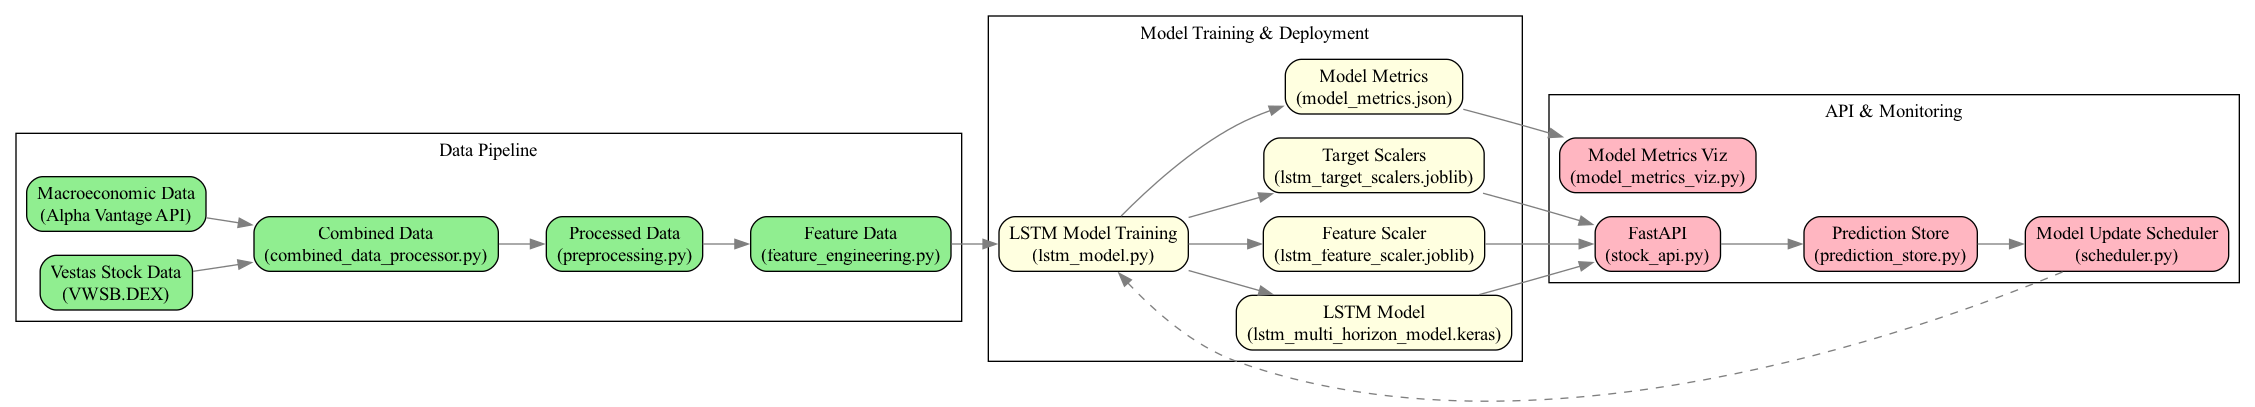
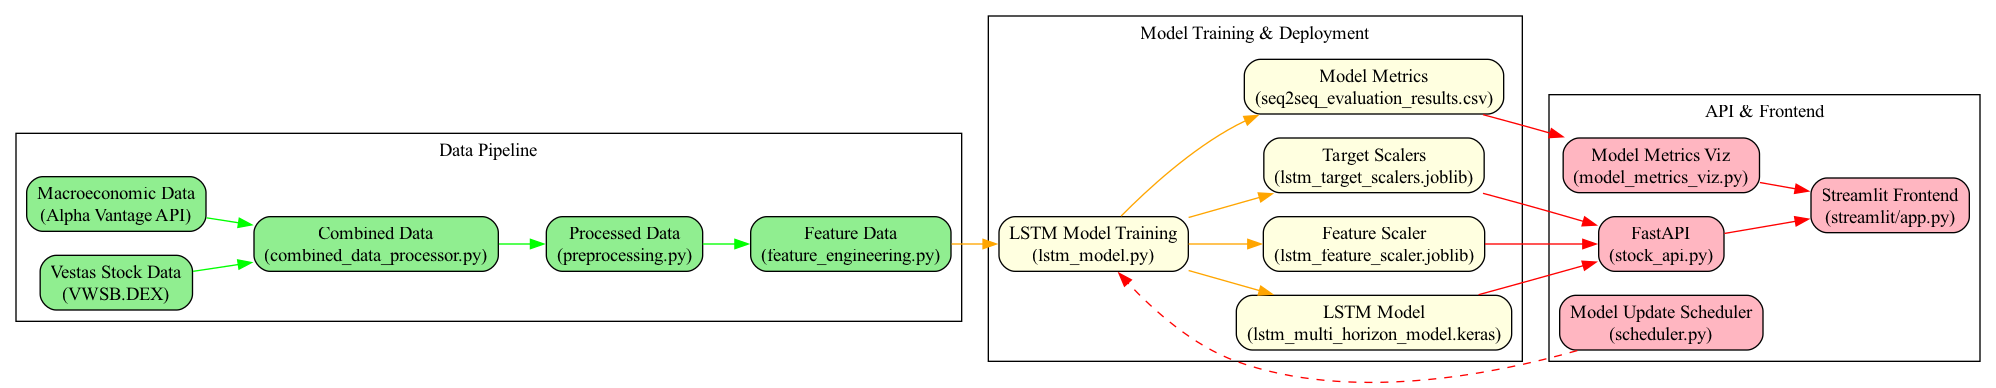
1

Changed region(s): [[0.0, 0.0309, 0.994, 0.9897], [0.0, 0.3093, 0.497, 0.4021], [0.5281, 0.4948, 0.5591, 0.5258]]

diff --git a/src/pipelinevizoptions/src/pipelinevizoptions/pipeline_viz.py b/src/pipelinevizoptions/src/pipelinevizoptions/pipeline_viz.py
@@ -2,70 +2,68 @@ import graphviz
 from pathlib import Path
 
 def create_pipeline_visualization():
-    """Creates a visualization of the complete MLOps pipeline architecture."""
+    """Opretter en visualisering af pipeline arkitekturen med Graphviz"""
     
-    # Create a new digraph
+    # Opret en ny digraph
     dot = graphviz.Digraph(comment='MLOps Pipeline Architecture')
     dot.attr(rankdir='LR')  # Left to right layout
     
-    # Add styling
-    dot.attr('node', shape='box', style='rounded,filled', fillcolor='lightblue')
-    dot.attr('edge', color='gray50')
+    # Tilføj styling
+    dot.attr('node', shape='box', style='rounded,filled')
     
     # Data Pipeline Nodes
     with dot.subgraph(name='cluster_0') as c:
         c.attr(label='Data Pipeline')
-        c.attr('node', fillcolor='lightgreen')
-        c.node('vestas_data', 'Vestas Stock Data\n(VWSB.DEX)')
-        c.node('macro_data', 'Macroeconomic Data\n(Alpha Vantage API)')
-        c.node('combined_data', 'Combined Data\n(combined_data_processor.py)')
-        c.node('processed_data', 'Processed Data\n(preprocessing.py)')
-        c.node('feature_data', 'Feature Data\n(feature_engineering.py)')
+        c.node('vestas_data', 'Vestas Stock Data\n(VWSB.DEX)', fillcolor='lightgreen')
+        c.node('macro_data', 'Macroeconomic Data\n(Alpha Vantage API)', fillcolor='lightgreen')
+        c.node('combined_data', 'Combined Data\n(combined_data_processor.py)', fillcolor='lightgreen')
+        c.node('processed_data', 'Processed Data\n(preprocessing.py)', fillcolor='lightgreen')
+        c.node('feature_data', 'Feature Data\n(feature_engineering.py)', fillcolor='lightgreen')
         
-        # Data flow
-        c.edge('vestas_data', 'combined_data')
-        c.edge('macro_data', 'combined_data')
-        c.edge('combined_data', 'processed_data')
-        c.edge('processed_data', 'feature_data')
+        # Data flow edges
+        c.edge('vestas_data', 'combined_data', color='green')
+        c.edge('macro_data', 'combined_data', color='green')
+        c.edge('combined_data', 'processed_data', color='green')
+        c.edge('processed_data', 'feature_data', color='green')
     
     # Model Training Nodes
     with dot.subgraph(name='cluster_1') as c:
         c.attr(label='Model Training & Deployment')
-        c.attr('node', fillcolor='lightyellow')
-        c.node('model_training', 'LSTM Model Training\n(lstm_model.py)')
-        c.node('lstm_model', 'LSTM Model\n(lstm_multi_horizon_model.keras)')
-        c.node('feature_scaler', 'Feature Scaler\n(lstm_feature_scaler.joblib)')
-        c.node('target_scalers', 'Target Scalers\n(lstm_target_scalers.joblib)')
-        c.node('model_metrics', 'Model Metrics\n(model_metrics.json)')
+        c.node('model_training', 'LSTM Model Training\n(lstm_model.py)', fillcolor='lightyellow')
+        c.node('lstm_model', 'LSTM Model\n(lstm_multi_horizon_model.keras)', fillcolor='lightyellow')
+        c.node('feature_scaler', 'Feature Scaler\n(lstm_feature_scaler.joblib)', fillcolor='lightyellow')
+        c.node('target_scalers', 'Target Scalers\n(lstm_target_scalers.joblib)', fillcolor='lightyellow')
+        c.node('model_metrics', 'Model Metrics\n(seq2seq_evaluation_results.csv)', fillcolor='lightyellow')
         
-        # Model flow
-        c.edge('feature_data', 'model_training')
-        c.edge('model_training', 'lstm_model')
-        c.edge('model_training', 'feature_scaler')
-        c.edge('model_training', 'target_scalers')
-        c.edge('model_training', 'model_metrics')
+        # Model flow edges
+        c.edge('feature_data', 'model_training', color='orange')
+        c.edge('model_training', 'lstm_model', color='orange')
+        c.edge('model_training', 'feature_scaler', color='orange')
+        c.edge('model_training', 'target_scalers', color='orange')
+        c.edge('model_training', 'model_metrics', color='orange')
     
-    # API & Monitoring Nodes
+    # API & Frontend Nodes
     with dot.subgraph(name='cluster_2') as c:
-        c.attr(label='API & Monitoring')
-        c.attr('node', fillcolor='lightpink')
-        c.node('api', 'FastAPI\n(stock_api.py)')
-        c.node('prediction_store', 'Prediction Store\n(prediction_store.py)')
-        c.node('scheduler', 'Model Update Scheduler\n(scheduler.py)')
-        c.node('metrics_viz', 'Model Metrics Viz\n(model_metrics_viz.py)')
+        c.attr(label='API & Frontend')
+        c.node('api', 'FastAPI\n(stock_api.py)', fillcolor='lightpink')
+        c.node('streamlit', 'Streamlit Frontend\n(streamlit/app.py)', fillcolor='lightpink')
+        c.node('scheduler', 'Model Update Scheduler\n(scheduler.py)', fillcolor='lightpink')
+        c.node('metrics_viz', 'Model Metrics Viz\n(model_metrics_viz.py)', fillcolor='lightpink')
         
-        # API flow
-        c.edge('lstm_model', 'api')
-        c.edge('feature_scaler', 'api')
-        c.edge('target_scalers', 'api')
-        c.edge('api', 'prediction_store')
-        c.edge('prediction_store', 'scheduler')
-        c.edge('model_metrics', 'metrics_viz')
-        c.edge('scheduler', 'model_training', style='dashed')
+        # API flow edges
+        c.edge('lstm_model', 'api', color='red')
+        c.edge('feature_scaler', 'api', color='red')
+        c.edge('target_scalers', 'api', color='red')
+        c.edge('api', 'streamlit', color='red')
+        c.edge('model_metrics', 'metrics_viz', color='red')
+        c.edge('metrics_viz', 'streamlit', color='red')
+        c.edge('scheduler', 'model_training', style='dashed', color='red')
     
-    # Save visualization
+    # Opret output directory
     output_dir = Path('visualizations')
     output_dir.mkdir(exist_ok=True)
+    
+    # Gem visualisering
     dot.render(str(output_dir / 'pipeline_architecture'), format='png', cleanup=True)
     print(f"Visualization saved in {output_dir}/pipeline_architecture.png")
 

diff --git a/src/pipelinevizoptions/src/pipelinevizoptions/animated_graphviz.py b/src/pipelinevizoptions/src/pipelinevizoptions/animated_graphviz.py
@@ -16,7 +16,7 @@ def create_animated_pipeline():
         dot.attr(rankdir='LR')  # Left to right layout
         
         # Tilføj styling
-        dot.attr('node', shape='box', style='rounded,filled')  # Tilføj farver
+        dot.attr('node', shape='box', style='rounded,filled')
         
         # Data Pipeline Nodes
         with dot.subgraph(name='cluster_0') as c:
@@ -72,7 +72,7 @@ def create_animated_pipeline():
             c.node('lstm_model', 'LSTM Model\n(lstm_multi_horizon_model.keras)', fillcolor=model_color)
             c.node('feature_scaler', 'Feature Scaler\n(lstm_feature_scaler.joblib)', fillcolor=model_color)
             c.node('target_scalers', 'Target Scalers\n(lstm_target_scalers.joblib)', fillcolor=model_color)
-            c.node('model_metrics', 'Model Metrics\n(model_metrics.json)', fillcolor=model_color)
+            c.node('model_metrics', 'Model Metrics\n(seq2seq_evaluation_results.csv)', fillcolor=model_color)
             
             # Model flow edges med farver og moving dots
             if active_step == 3:
@@ -96,16 +96,16 @@ def create_animated_pipeline():
                 c.edge('model_training', 'target_scalers', color=model_edge_color)
                 c.edge('model_training', 'model_metrics', color=model_edge_color)
         
-        # API & Monitoring Nodes
+        # API & Frontend Nodes
         with dot.subgraph(name='cluster_2') as c:
-            c.attr(label='API & Monitoring')
+            c.attr(label='API & Frontend')
             
             # Node farver baseret på active step
             api_color = 'lightpink' if active_step >= 5 else 'lightgray'
             api_edge_color = 'red' if active_step >= 5 else 'gray50'
             
             c.node('api', 'FastAPI\n(stock_api.py)', fillcolor=api_color)
-            c.node('prediction_store', 'Prediction Store\n(prediction_store.py)', fillcolor=api_color)
+            c.node('streamlit', 'Streamlit Frontend\n(streamlit/app.py)', fillcolor=api_color)
             c.node('scheduler', 'Model Update Scheduler\n(scheduler.py)', fillcolor=api_color)
             c.node('metrics_viz', 'Model Metrics Viz\n(model_metrics_viz.py)', fillcolor=api_color)
             
@@ -123,15 +123,17 @@ def create_animated_pipeline():
                 c.edge('target_scalers', 'api', color=api_edge_color)
             
             if active_step == 6:
-                c.edge('api', 'prediction_store', color=api_edge_color,
-                      label='●' if dot_position < 0.5 else '')
+                c.edge('api', 'streamlit', color=api_edge_color,
+                      label='●' if dot_position < 0.33 else '')
                 c.edge('model_metrics', 'metrics_viz', color=api_edge_color,
-                      label='●' if dot_position >= 0.5 else '')
+                      label='●' if 0.33 <= dot_position < 0.66 else '')
+                c.edge('metrics_viz', 'streamlit', color=api_edge_color,
+                      label='●' if dot_position >= 0.66 else '')
             else:
-                c.edge('api', 'prediction_store', color=api_edge_color)
+                c.edge('api', 'streamlit', color=api_edge_color)
                 c.edge('model_metrics', 'metrics_viz', color=api_edge_color)
+                c.edge('metrics_viz', 'streamlit', color=api_edge_color)
             
-            c.edge('prediction_store', 'scheduler', color=api_edge_color)
             c.edge('scheduler', 'model_training', style='dashed', color=api_edge_color)
         
         return dot
